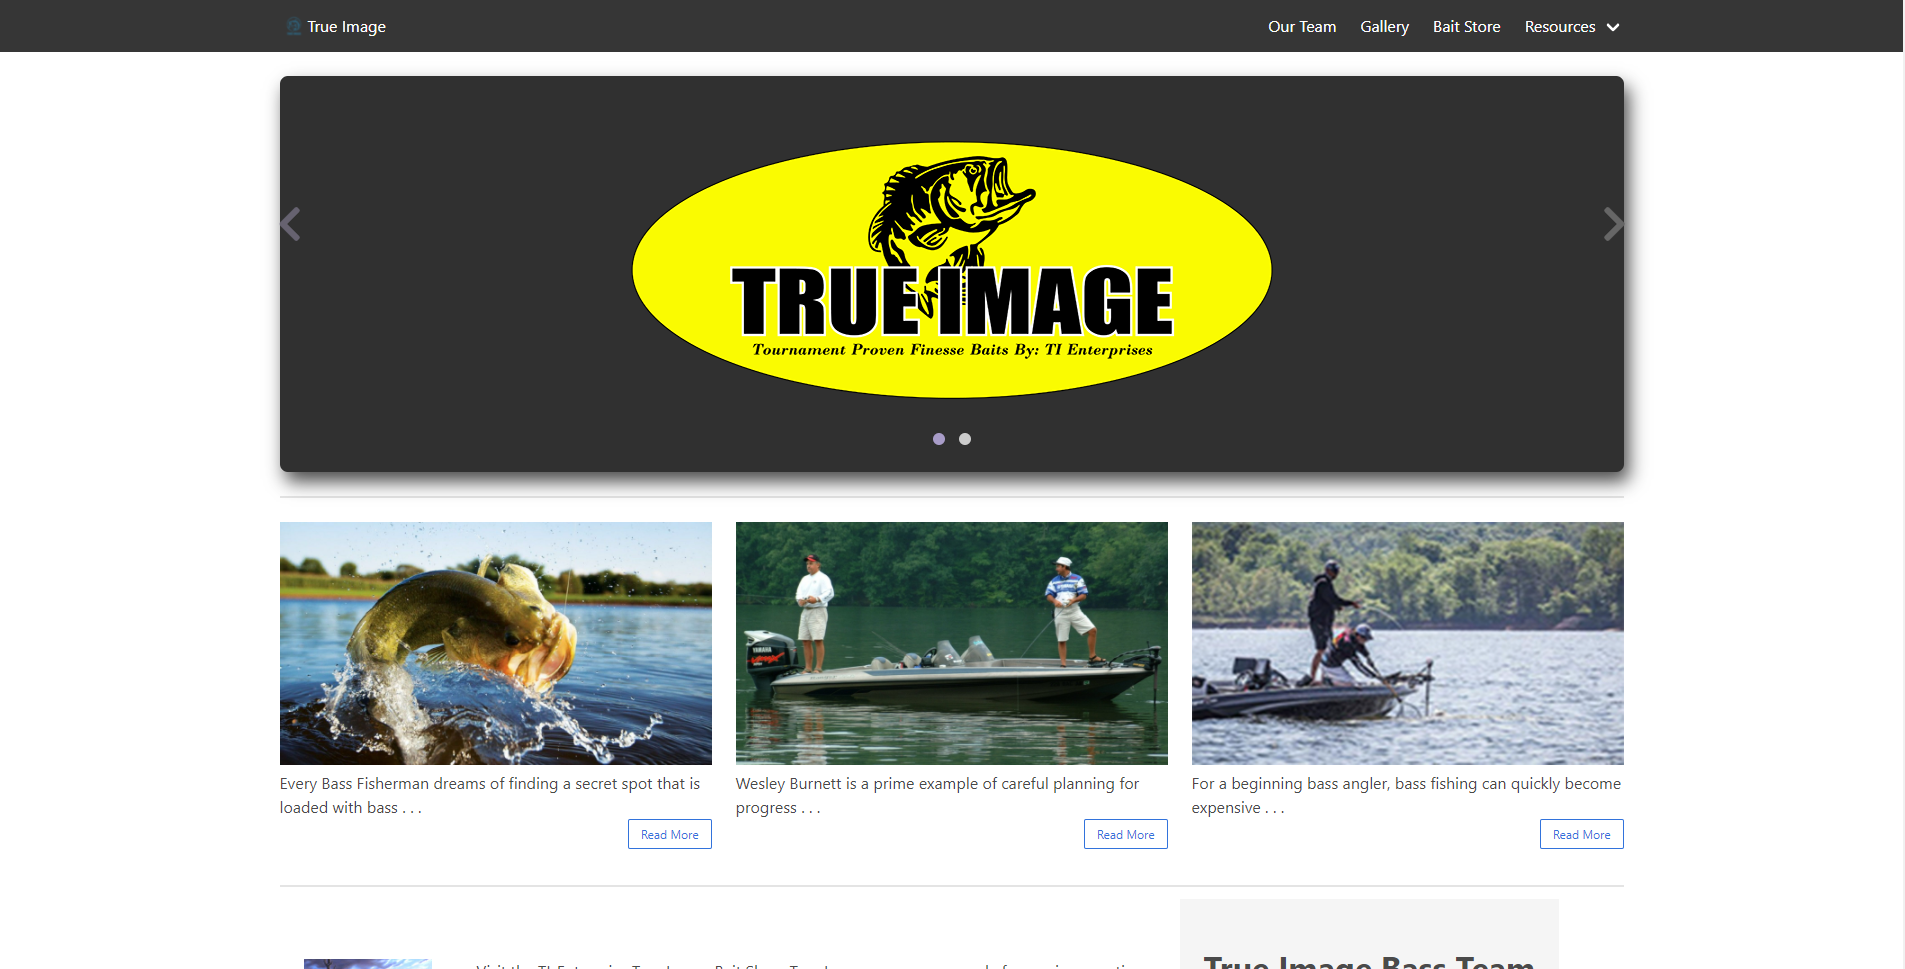
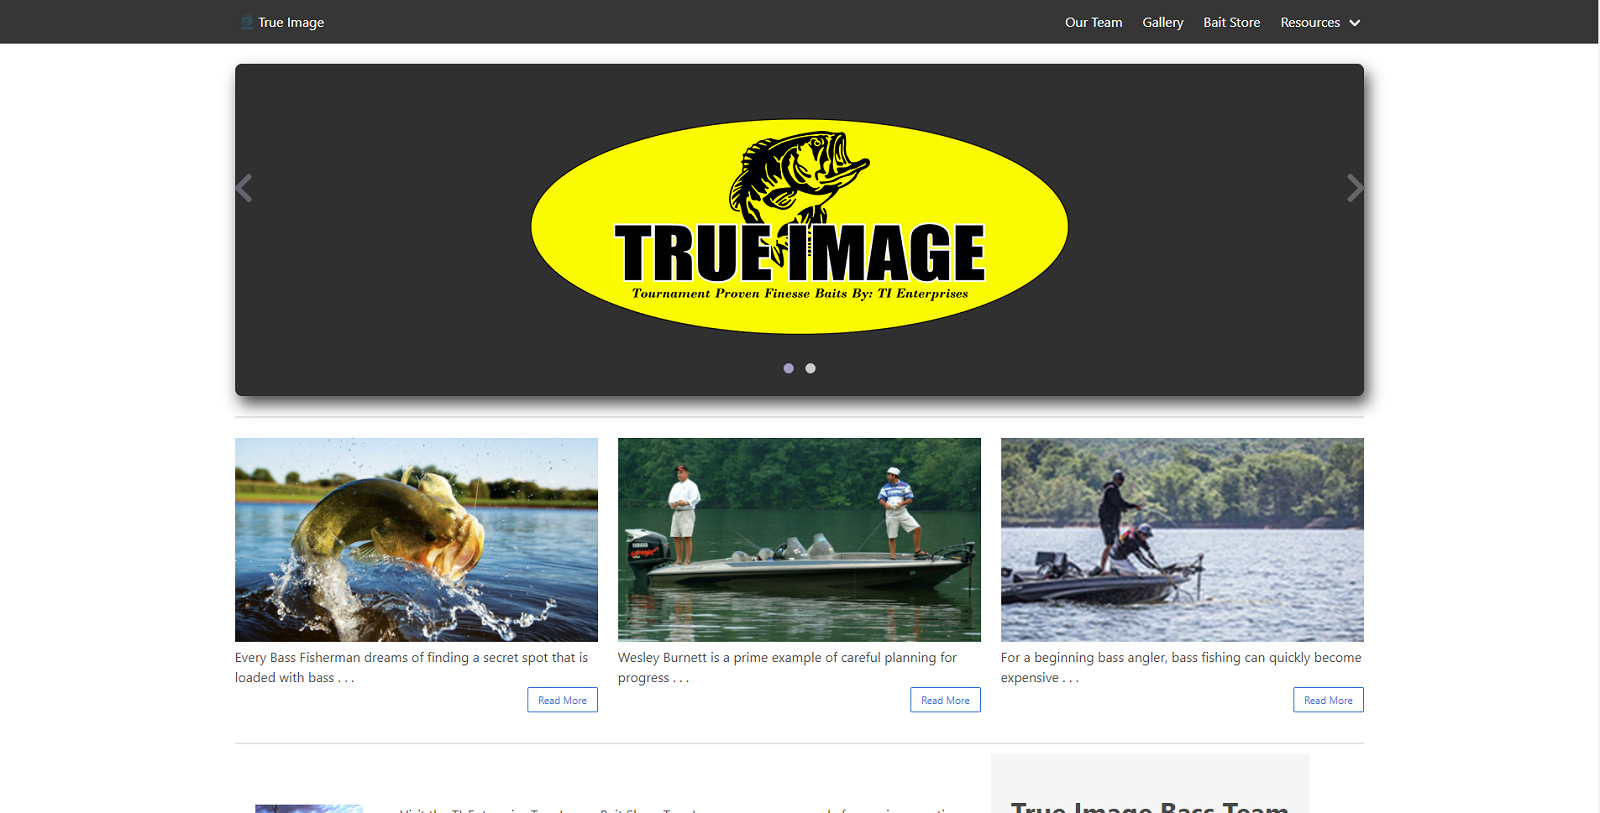
Image Resize. Typo corrections

diff --git a/src/data/projects.js b/src/data/projects.js
@@ -11,7 +11,7 @@ const portfolios = [
     link1: 'http://ti-enterprise.com/',
     link2: 'https://github.com/josh7951/TI-Enterprise',
     title: 'TI-Enterprise',
-    text: 'Brochure site created using Laravel, Vue.js, and Bulma.io. Created a custom CMS to give the admin the ability to update certain web pages.'
+    text: 'Brochure site created using Laravel, Vue.js, and Bulma.io. Created a custom CMS to give the admin the ability to update certain web pages'
   },
   {
     id: 2,
@@ -29,7 +29,7 @@ const portfolios = [
     link1: 'https://khronotes.com/',
     link2: 'https://github.com/Inviro/584-scheduler',
     title: 'KhroNotes',
-    text: 'Simple Web Application that features a working CRUD system to allow users to create and update their schedule planners. Built using Laravel amd Vue.js.'
+    text: 'Simple Web Application that features a working CRUD system to allow users to create and update their schedule planners. Built using Laravel and Vue.js'
   },
   {
     id: 4,
@@ -38,7 +38,7 @@ const portfolios = [
     link1: '',
     link2: 'https://github.com/CoconutFresh/RunningApp',
     title: 'Fitness App - Android',
-    text: 'Developed the database architecture using Firebase Realtime/Firestore database to store user account infromation and fitness data'
+    text: 'Developed the database architecture using Firebase Realtime/Firestore database to store user account information and fitness data'
   }
 ]
 

diff --git a/src/components/Resume.js b/src/components/Resume.js
@@ -25,7 +25,7 @@ function Resume() {
             subtitle={'AQLighting Group'}
             list={<>
                     <li>Created new components and features to improve UI/UX Design</li>
-                    <li>Improvements on UI design for both deskop and mobile applications</li>
+                    <li>Improvements on UI design for both desktop and mobile applications</li>
                     <li>Identified and corrected any website errors negatively impacting User Experience</li>
                     <li>Management of product pages and product inventory across all sales channels such as BigCommerce, Amazon, Walmart, Wayfair, and Houzz</li>
                     <li>Utilized Google Analytics to analyze success rates of Google Ads and SEO Strategies and used data to maintain rankings on top selling products and improve rankings on underperforming products</li>
@@ -51,7 +51,7 @@ function Resume() {
             list={<>
                     <li>Associates of Science in Computer Science for Transfer</li>
                     <li>Associates of Science in Mathematics for Transfer</li>
-                    <li>Associates of Science in Phyiscs for Transfer</li>
+                    <li>Associates of Science in Physics for Transfer</li>
                     <li>Associates of Science in Mathematics</li>
                     <li>Associate of Arts in Liberal Arts &amp; Sciences</li>
                   </>}

diff --git a/src/pages/ContactPage.js b/src/pages/ContactPage.js
@@ -51,12 +51,12 @@ function ContactPage() {
                 {result ? <Result /> : null}
               </div>
               <div className="form-field">
-                <label htmlFor="name">Name*</label>
+                <label htmlFor="name">Name</label>
                 <input name="name" id="name" type="text" />
               </div>
 
               <div className="form-field">
-                <label htmlFor="email">Email*</label>
+                <label htmlFor="email">Email</label>
                 <input name="email" id="email" type="email" />
               </div>
 
@@ -66,7 +66,7 @@ function ContactPage() {
               </div>
 
               <div className="form-field">
-                <label htmlFor="message">Message*</label>
+                <label htmlFor="message">Message</label>
                 <textarea name="message" id="message" cols="30" rows="10"></textarea>
               </div>
               

diff --git a/src/pages/HomePage.js b/src/pages/HomePage.js
@@ -15,7 +15,7 @@ function HomePage() {
       <div className="home-container">
         <h1>console.log(<span>'Hello World! :)'</span>);</h1>
         <p>
-          My name is Joshua Mejia. I currently work a Front End Developer and do freelance work. Welcome to my site!
+          My name is Joshua Mejia. I currently work as a Front-End Developer and do freelance work. Welcome to my site!
         </p>
         <div className="links-container">
           <a href="https://github.com/josh7951" target="_blank" rel="noreferrer" className="icon i-github">
